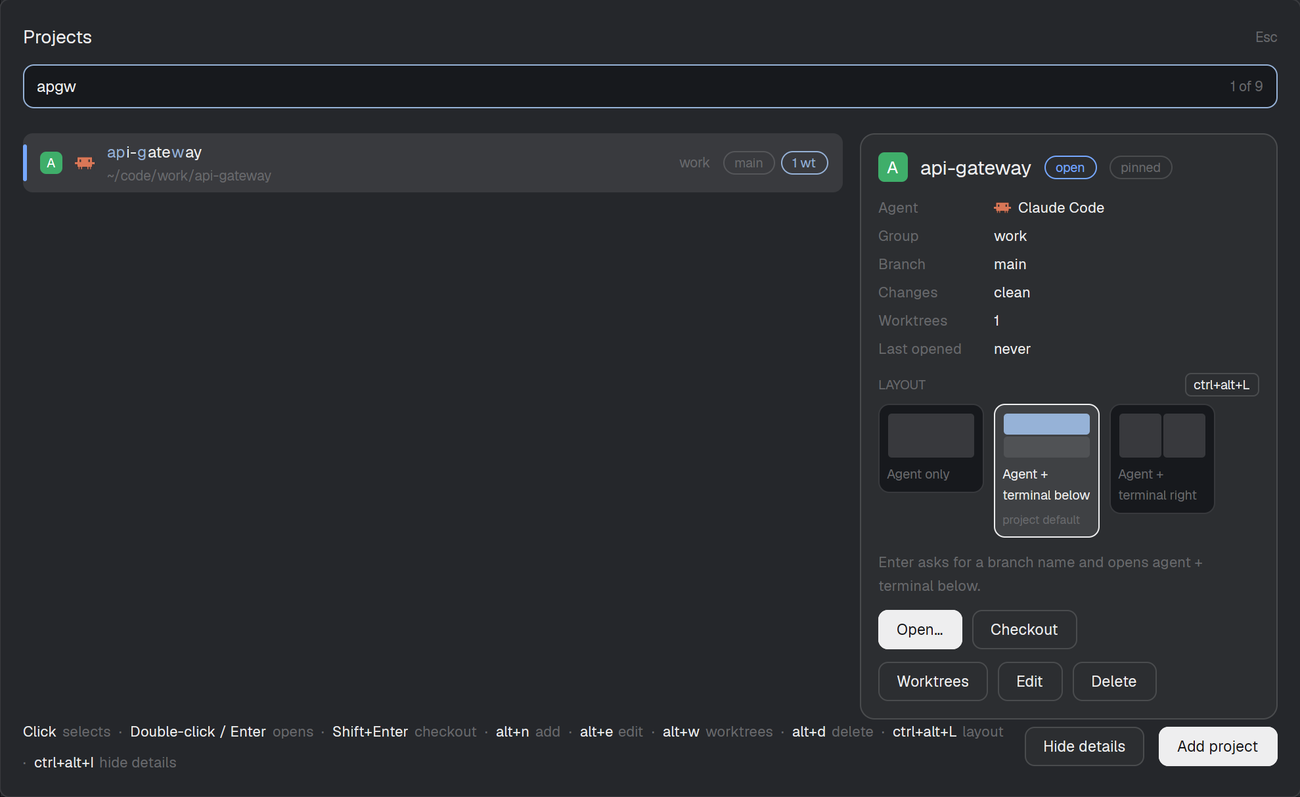
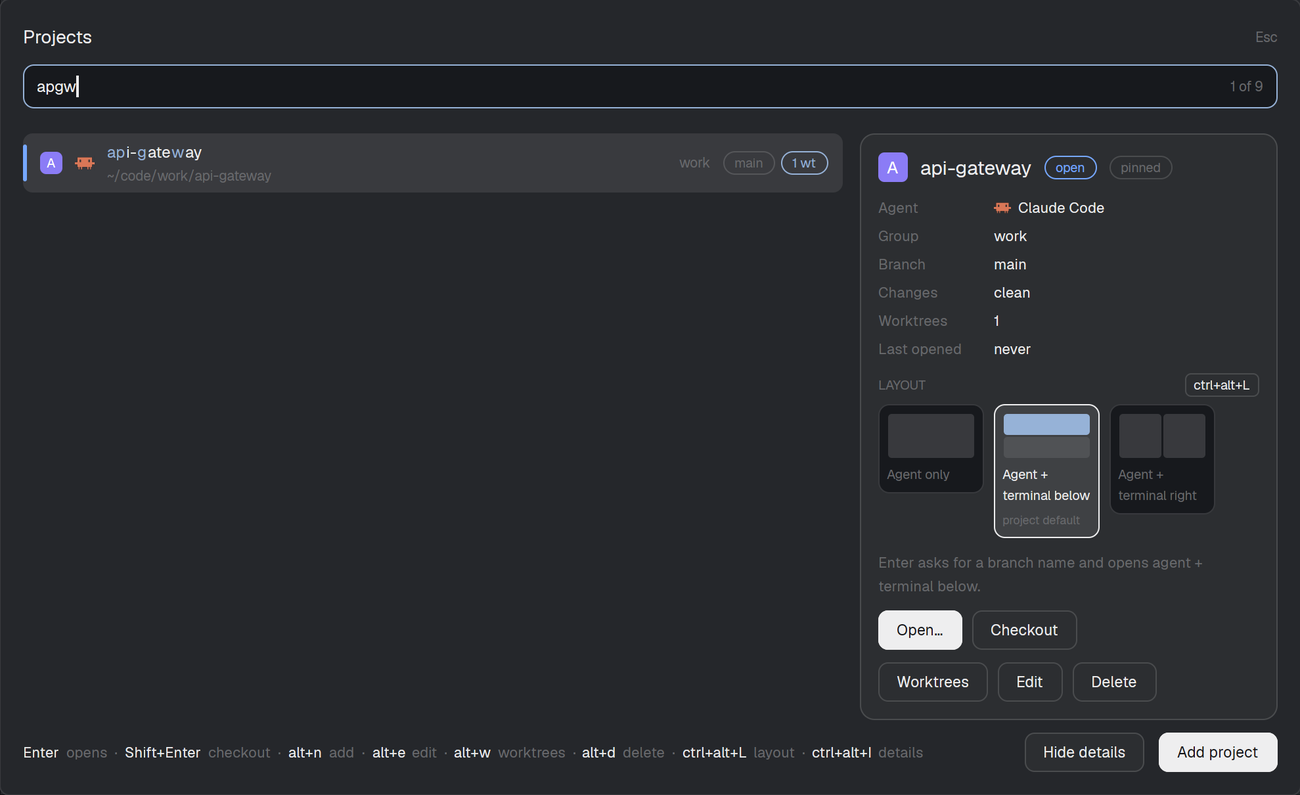
Turn the detail card and git details back on; restore the richer card; retake the docs images
The slowness that led to turning them off was herdr-core's (a full CPU core while a popup
was open), fixed in the herdr-core update: with it the card, layout pictures, buttons and
git chips measured 2-3% CPU and no interrupted draws, and the shipped picker 11-12%.

- The detail card and the git details are on by default (ctrl+alt+I hides the card;
  "gitInfo": false turns the git lookups off).
- The card from the original design is back: clickable layout pictures, the project
  default tag, Group and pinned, and Worktrees/Edit/Delete inside it. It reads the
  snapshot of herdr's data, not live data.
- The popup is 1060 px wide again.
- README and RECIPE say to update herdr-core if the picker is slow.
- Screenshots 01-14, 17, 18, preview.png and the tour GIF are retaken with demo projects.
- Tests: 172.

diff --git a/mods/project-presets/main.js b/mods/project-presets/main.js
@@ -68,8 +68,8 @@ export default class ProjectPresets extends View {
     this.layouts = [];
     this.refreshSnap();
     cx.timer.every(3000, (cx) => { if (this.refreshSnap()) cx.notify(); });
-    this.detail = shared(DETAIL) === true; // the detail card beside the list: off until asked for (ctrl+alt+I), it makes the popup slow
-    this.gitInfo = false;
+    this.detail = shared(DETAIL) !== false; // the detail card beside the list (ctrl+alt+I turns it off)
+    this.gitInfo = true;
     this.info = {}; // folder → { branch, dirty, worktrees } (null: not readable), filled in after the list shows
     this.layoutPick = null; // null: each project's own layout; "": none; else a layout name (set only when it differs from the project's own)
     this.raw = null;
@@ -124,8 +124,8 @@ export default class ProjectPresets extends View {
       }
       if (after) await after();
       cx.notify();
-      // Branch, changed files and worktrees per project: off unless "gitInfo": true is in the data file. It runs git in
-      // every project each time the picker opens, and the picker is slow enough already.
+      // Branch, changed files and worktrees per project: on unless "gitInfo": false is in the data file (it runs git in every
+      // project each time the picker opens).
       if (this.gitInfo) this.loadInfo(cx);
     });
   }
@@ -680,38 +680,44 @@ export default class ProjectPresets extends View {
     const card = v_flex().w(CARD).flex_none().gap(10).p(14).rounded(12).border_1().border_color(t.input).bg(t.raised);
     if (!r) return card.child(div().text_color(t.dim).text_size(12).child("Nothing selected."));
     const p = r.p;
-    const info = this.info[projectFolder(p)];
+    const folder = projectFolder(p);
+    const info = this.info[folder];
     const name = commandName(p.startup.agent);
     const program = name && this.allAgents.find((a) => a.key === name || commandName((a.run ?? []).join(" ")) === name);
-    // Each element a render builds costs time, and herdr cuts a slow render off: a row is a label and a plain string.
-    const kv = (k, v) => h_flex().gap(10).text_size(12).text_color(t.foreground).child(div().w(84).text_color(t.dim).child(k)).child(v);
+    const kv = (k, v) => h_flex().gap(10).items_start().text_size(12)
+      .child(div().w(84).flex_none().text_color(t.dim).child(k))
+      .child(div().flex_1().min_w(0).text_color(t.foreground).child(v));
     const current = this.layoutNameFor(p);
     const choices = [{ name: "", label: "Agent only", panes: [{ type: "agent" }] }, ...this.layouts];
     const [what, openLabel] = enterAction(p.worktree.mode);
     const shown = choices.find((c) => c.name === current);
-    const dirty = info == null ? "…" : info.dirty ? `${info.dirty} file${info.dirty > 1 ? "s" : ""} modified` : "clean";
+    const dirtyText = info == null ? "…" : info.dirty ? `${info.dirty} file${info.dirty > 1 ? "s" : ""} modified` : "clean";
     return card
-      .child(h_flex().gap(10).items_center()
+      .child(h_flex().gap(10).items_center().flex_wrap()
         .child(this.avatar(t, p, r.space, 24))
         .child(div().text_size(16).font_semibold().text_color(t.foreground).child(p.name))
-        .when(Boolean(r.space), (el) => el.child(this.tag(t, r.space.status === "working" ? "agent working" : "open", r.space.status === "working" ? t.working : t.done))))
-      .child(v_flex().gap(3)
-        .child(kv("Agent", program?.name ?? (name || "plain shell")))
-        .when(this.gitInfo, (el) => el.child(kv("Branch", info?.branch ?? "…")).child(kv("Changes", dirty)).child(kv("Worktrees", info == null ? "…" : String(info.worktrees))))
+        .when(Boolean(r.space), (el) => el.child(this.tag(t, r.space.status === "working" ? "agent working" : "open", r.space.status === "working" ? t.working : t.done)))
+        .when(p.pinned, (el) => el.child(this.tag(t, "pinned", t.dim, t.input))))
+      .child(v_flex().gap(4)
+        .child(kv("Agent", h_flex().gap(6).items_center().child(this.agentIcon(t, p, 14)).child(div().child(program?.name ?? (name || "plain shell")))))
+        .when(Boolean(p.group), (el) => el.child(kv("Group", p.group)))
+        .when(this.gitInfo, (el) => el.child(kv("Branch", info?.branch ?? "…")).child(kv("Changes", info?.dirty ? div().text_color(t.working).child(dirtyText) : dirtyText)).child(kv("Worktrees", info == null ? "…" : String(info.worktrees))))
         .child(kv("Last opened", ago(this.snap.recent[p.path]))))
-      .child(h_flex().items_center().child(div().flex_1().text_size(10.5).font_semibold().text_color(t.dim).child(`LAYOUT${this.layoutPick !== null ? " · PICKED" : ""}`))
-        .child(div().text_size(10.5).text_color(t.dim).child(LAYOUT_HINT())))
-      .child(h_flex().gap(8).items_start().children(choices.map((c, i) => {
-        const on = c.name === current;
-        const lit = on && this.layoutLit;
-        return v_flex().id(`pp-lay-${i}`).gap(4).p(6).rounded(9).border_1().cursor_pointer()
-          .border_color(on ? (lit ? t.accent : t.solid) : t.input).bg(on ? t.selected : t.background)
-          .on_click(this.guard("layout click", () => { this.layoutPick = c.name === (p.startup.layout ?? "") ? null : c.name; cx.notify(); }))
-          .child(this.layoutThumb(t, c, on))
-          .child(div().text_size(10.5).max_w(72).text_color(on ? t.foreground : t.dim).child(c.label ?? c.name));
-      })))
+      .child(v_flex().gap(6)
+        .child(h_flex().items_center().child(div().flex_1().text_size(10.5).font_semibold().text_color(t.dim).child(`LAYOUT${this.layoutPick !== null ? " · PICKED" : ""}`))
+          .child(div().px(6).rounded(5).border_1().border_color(t.input).text_size(10.5).text_color(t.foreground).child(LAYOUT_HINT())))
+        .child(h_flex().gap(8).items_start().flex_wrap().children(choices.map((c, i) => {
+          const on = c.name === current;
+          const lit = on && this.layoutLit;
+          return v_flex().id(`pp-lay-${i}`).gap(4).p(6).rounded(9).border_1().cursor_pointer()
+            .border_color(on ? (lit ? t.accent : t.solid) : t.input).bg(on ? t.selected : t.background)
+            .on_click(this.guard("layout click", () => { this.layoutPick = c.name === (p.startup.layout ?? "") ? null : c.name; cx.notify(); }))
+            .child(this.layoutThumb(t, c, on))
+            .child(div().text_size(10.5).max_w(72).text_color(on ? t.foreground : t.dim).when(on, (el) => (lit ? el.font_bold() : el.font_semibold())).child(c.label ?? c.name))
+            .when(c.name === (p.startup.layout ?? ""), (el) => el.child(div().text_size(9.5).text_color(t.dim).child("project default")));
+        }))))
       .child(div().text_size(12).text_color(t.dim).child(`Enter ${what}${shown && shown.name ? ` and opens ${(shown.label ?? shown.name).toLowerCase()}` : " and opens the agent alone"}.`))
-      .child(h_flex().gap(8)
+      .child(h_flex().gap(8).items_center()
         .child(this.button(t, "pp-open", openLabel, true, () => { this.activate(false); cx.notify(); }))
         .child(this.button(t, "pp-checkout", "Checkout", false, () => { this.activate(true); cx.notify(); })))
       .child(this.actionButtons(t, cx));

diff --git a/mods/project-presets/config.js b/mods/project-presets/config.js
@@ -8,10 +8,10 @@ const file = () => `${appHome()}/data/project-presets.json`;
  *  hand edit made in between is refused instead of overwritten. */
 export async function loadConfig() {
   const raw = await readTextFile(file());
-  if (raw == null) return { projects: [], layouts: [], gitInfo: false, raw: null };
+  if (raw == null) return { projects: [], layouts: [], gitInfo: true, raw: null };
   try {
     const data = JSON.parse(raw);
-    return { projects: (data.projects ?? []).map(normalize), layouts: Array.isArray(data.layouts) ? data.layouts : [], gitInfo: data.gitInfo === true, raw };
+    return { projects: (data.projects ?? []).map(normalize), layouts: Array.isArray(data.layouts) ? data.layouts : [], gitInfo: data.gitInfo !== false, raw };
   } catch (e) {
     throw new Error(`${file()} is not valid JSON: ${e.message}`);
   }

diff --git a/RECIPE.md b/RECIPE.md
@@ -30,7 +30,7 @@ The editor replaces the list in the same popup, in four sections chosen by butto
 - Fast-forward only happens on the checkout when it is on the base branch, clean, and can fast-forward.
 - **Worktree cleanup** has a filter box (fuzzy, on branch and folder name) over a scrolling list of the repo's linked worktrees (`git worktree list --porcelain`, main checkout excluded) with the branch, folder, and badges: `open` (a space shows it), `uncommitted`, `locked`, `merged` (branch is an ancestor of `<remote>/<base>`) or `unmerged`. Enter or a click ticks the highlighted row; m (or Tick merged) ticks every merged, clean, unlocked one, and again unticks them; r (or the Remove button, labelled with the count) asks for confirmation and the second press removes the ticked ones with `git worktree remove` (never `--force`, so dirty ones are refused and reported). A merged branch is then deleted with `git branch -d`; an unmerged one is kept. The space showing a removed worktree is closed with `space.close`.
 - **Space name and repo space** (worktree modes only): the new worktree's space is named from `worktree.spaceName` (variables `{name}` the project's display name, `{branch}`, `{slug}`, `{user}`, `{date}`, `{repo}`; an empty result falls back to `<name> · <branch>`). When `worktree.repoSpace` is on and no space shows the project's main checkout, a plain-shell space named after the project is opened on it first, then the worktree space, which herdr nests under it. If the repo's space is already open nothing extra is created.
-- **Sections and the detail card:** without a search the list has headers (Open now: a space shows the folder; Pinned; Everything else), 30 px high among 48 px rows (`v_virtual_list` takes per-item sizes); headers are dropped while searching or when only one group is non-empty. Each row has an avatar tile in the space's color (`shared("space.colors")`, palette as in the `spaces` mod; an outline when no space is open), a status stripe that pulses (`loop("opacity")`) while the agent works, the matched letters in bold accent, and chips from `gitSummary` (branch, changed files from `status --porcelain`, linked worktrees), loaded three projects at a time after the list shows, only when `"gitInfo": true` is in the data file (off by default: it runs git in every project on every open). A 340 px card beside the list shows the highlighted project (agent, branch, changes, worktrees, last opened from `project-presets.recent`, a mini drawing of each layout from `layoutRects`, what Enter does, and the Open/Checkout/Worktrees/Edit/Delete buttons). The card is OFF by default (shared state `project-presets.detail`; ctrl+alt+I / ⌘⌥I or the Show details button turn it on): herdr interrupts a render that takes too long ("This view could not be re-rendered … interrupted") and a render with the card, its layout pictures and its buttons went over that limit in testing; the buttons then sit under the list and the layout choice is the footer's text chips. `mod.json` overlay width is 900. A render builds as few elements as it can: hints are one row of bold keys and plain strings, card rows are a label and a string, background redraws are batched into one every 250 ms, and buttons have no hover callback (each cost tens of ms).
+- **Sections and the detail card:** without a search the list has headers (Open now: a space shows the folder; Pinned; Everything else), 30 px high among 48 px rows (`v_virtual_list` takes per-item sizes); headers are dropped while searching or when only one group is non-empty. Each row has an avatar tile in the space's color (`shared("space.colors")`, palette as in the `spaces` mod; an outline when no space is open), a status stripe that pulses (`loop("opacity")`) while the agent works, the matched letters in bold accent, and chips from `gitSummary` (branch, changed files from `status --porcelain`, linked worktrees), loaded three projects at a time after the list shows, unless `"gitInfo": false` is in the data file (it runs git in every project on every open). A 340 px card beside the list shows the highlighted project (agent, branch, changes, worktrees, last opened from `project-presets.recent`, a mini drawing of each layout from `layoutRects`, what Enter does, and the Open/Checkout/Worktrees/Edit/Delete buttons). The card is ON by default (shared state `project-presets.detail`; ctrl+alt+I / ⌘⌥I or the Hide details button turn it off). On older herdr-core versions the popup burned a full core and a draw could be cut off ("This view could not be re-rendered … interrupted"); the herdr-core update fixed that, and with it the original card, layout pictures and buttons measured 2–3% CPU; the buttons then sit under the list and the layout choice is the footer's text chips. `mod.json` overlay width is 1060. A render builds as few elements as it can: hints are one row of bold keys and plain strings, card rows are a label and a string, background redraws are batched into one every 250 ms, and buttons have no hover callback (each cost tens of ms).
 - **Pane layouts:** `project-presets.json` may hold a `layouts` list beside `projects` (kept when the editor saves). Two ship (`agent-terminal`, `agent-side-terminal`); a user layout of the same name replaces one. A layout is `panes`: the first is the agent, each next one has `direction` (`right`/`down`), a `type` (`shell`, `command` + `command`, `agent`), an optional `name`, and `from` (the pane to split; default the previous one). A project's `startup.layout` names one; ctrl+alt+**L** (⌘⌥**L**) in the list or the name step steps none, then each layout for that launch (a selector under the list shows them all, the one in use lit; it bolds with an accent ring for a second after a change). After `space.new`, each extra pane is made with `herdr-app do pane.split {direction, pane, argv}` (its `pane` reply is the next pane's id); `argv` wraps the command so it starts in the project folder, since a split takes none. Focus returns to the agent (`pane.focus`). Sizes are not set. An unknown layout name or a broken layout is shown before anything is created; a failed split is logged and ends the layout, the space and extra tabs still open.
 - **Delete** (the button or **d**) shows "Remove \"<name>\" from the list?" in red; pressing d or clicking Delete again removes the project from `project-presets.json`, any other key cancels. The folder and its worktrees are left alone. The editor's Delete button has its own two-click confirmation.
 - Selecting a project records it in shared state `project-presets.recent` for ordering.
@@ -92,6 +92,6 @@ The editor replaces the list in the same popup, in four sections chosen by butto
 - With 15 or more projects the list scrolls with the wheel and a scrollbar, the arrow keys keep the highlight in view, a single click only highlights, and a double-click opens.
 - The editor's four section buttons switch between Project, Worktree, Git and Startup; Save writes every section's fields.
 - For a project set to "typed after start" with a prompt, the agent opens empty and the prompt is typed into it once ready (checked with hermes).
-- Opening the picker shows sections and git chips on the rows, with no card; ctrl+alt+I turns the card on and the next opening keeps it; the buttons and the layout choice are still there.
+- Opening the picker shows sections, git chips on the rows and the detail card; ctrl+alt+I hides the card and the next opening keeps it; the buttons and the layout choice are still there.
 - With a layout that has a file-manager pane and a terminal, opening the project shows those panes beside the agent, all in the project folder; ctrl+alt+L before Enter changes it for that launch, and picking "none" opens the agent alone.
 - The log at `data/project-presets.log` contains only errors until `project-presets.debug` exists.

diff --git a/README.md b/README.md
@@ -38,13 +38,15 @@ When it finishes you land in a new space on the new worktree, with the agent alr
 
 ### Sections and the detail card
 
-The list is split into **Open now**, **Pinned** and **Everything else** (no headers while you search, or when only one group has projects). Each row starts with an avatar drawn like herdr's sidebar draws a space: a tile in the space's own color with the project's initial (an outline for a project with no open space). Then come the agent icon and, when git details are on, its branch, a `N changed` chip when files are modified, and `N wt` for linked worktrees. **Git details are off by default**: they run git in every project each time the picker opens, which slows it. Turn them on with `"gitInfo": true` next to `projects` in `~/.config/herdr-app/data/project-presets.json` (the card then also shows Branch, Changes and Worktrees). An open space gets a status stripe on the left edge, and the marker pulses while its agent is working. Typing highlights the letters that matched, and the search box counts matches (`3 of 12`).
+The list is split into **Open now**, **Pinned** and **Everything else** (no headers while you search, or when only one group has projects). Each row starts with an avatar drawn like herdr's sidebar draws a space: a tile in the space's own color with the project's initial (an outline for a project with no open space). Then come the agent icon and, when git details are on, its branch, a `N changed` chip when files are modified, and `N wt` for linked worktrees. The git details run git in every project each time the picker opens; turn them off with `"gitInfo": false` next to `projects` in `~/.config/herdr-app/data/project-presets.json` (the card then also drops its Branch, Changes and Worktrees rows). An open space gets a status stripe on the left edge, and the marker pulses while its agent is working. Typing highlights the letters that matched, and the search box counts matches (`3 of 12`).
 
-**The detail card is off by default.** Press **ctrl+alt+I** (**⌘⌥I** on macOS) or click Show details to turn it on; the choice is remembered. Beside the list it describes the highlighted project: agent, branch, changes, worktrees, when you last opened it, and the layout choices as small pictures of their panes. It says what Enter will do ("Enter asks for a branch name and opens agent + terminal below"). Herdr cuts a popup off when drawing it takes too long ("This view could not be re-rendered"), and the card is the most expensive part, so it stays off until you ask for it. With it off, the layout choice sits under the list as text chips (change it with **ctrl+alt+L**) and Worktrees, Edit and Delete are buttons under the list. The popup is 900 px wide; widen `overlay.width` in `mod.json` if you use the card a lot.
+**The detail card** sits beside the list: agent, branch, changes, worktrees, when you last opened the project, and the layout choices as small pictures of their panes (click one, or press **ctrl+alt+L**). It says what Enter will do ("Enter asks for a branch name and opens agent + terminal below") and holds the Open, Checkout, Worktrees, Edit and Delete buttons. Hide it with **ctrl+alt+I** (**⌘⌥I** on macOS) or the Hide details button, if it is too large or not wanted; the choice is remembered. Without it the layout choice sits under the list as text chips and the buttons sit under the list. The popup is 1060 px wide; narrow `overlay.width` in `mod.json` if you never use the card.
 
-| The card turned on, with a layout picked for this launch | The default: the card off |
+**If the picker is slow or the app's CPU jumps when you open it, update herdr-core.** Older versions of herdr-core burned a full CPU core while this popup (and any popup like it) was open; the herdr-core release notes mention the fix. If you can't update, hide the card and set `"gitInfo": false`.
+
+| The card, with a layout picked for this launch | The card hidden |
 |---|---|
-| ![The detail card with a layout picked for this launch](docs/screenshots/18-layout-picked.png) | ![The list with the detail card off](docs/screenshots/17-details-hidden.png) |
+| ![The detail card with a layout picked for this launch](docs/screenshots/18-layout-picked.png) | ![The list with the detail card hidden](docs/screenshots/17-details-hidden.png) |
 
 ### Pane layouts
 
